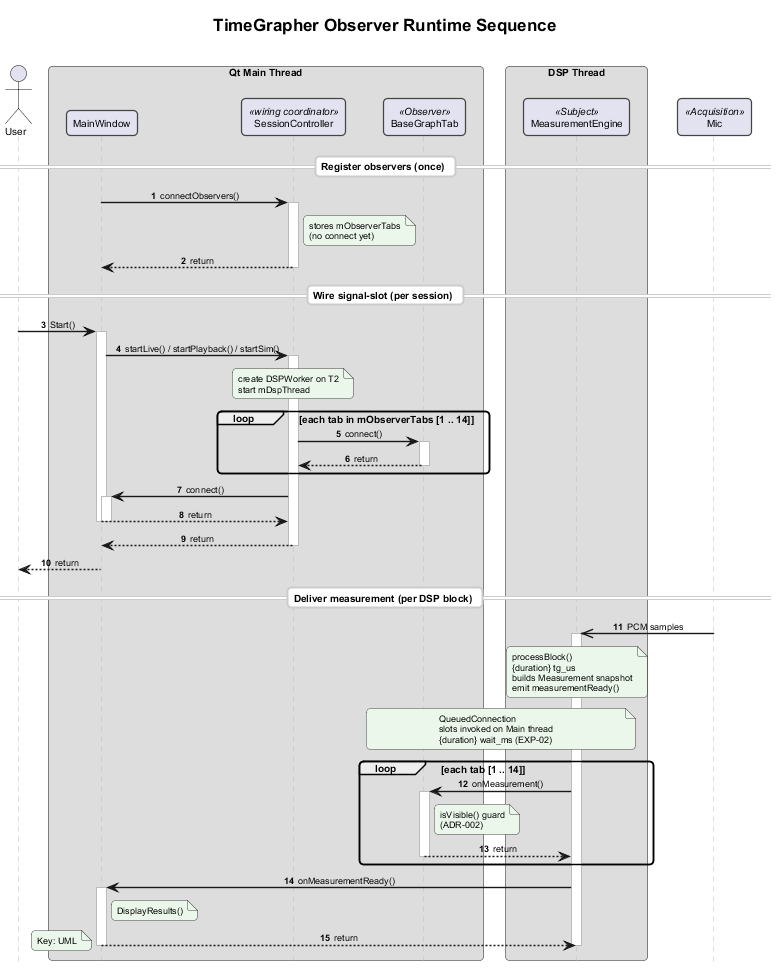
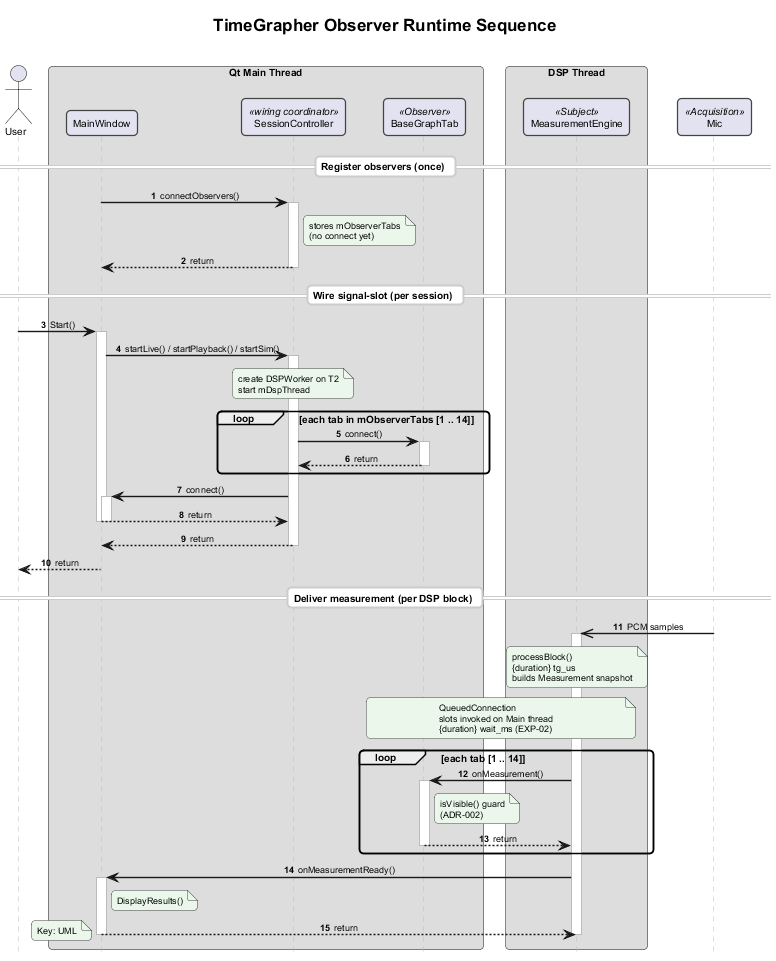
docs(m2): simplify Observer runtime sequence for 2-B focus
Keep User/Mic lifelines and slot delivery; omit buffer and explicit emit steps so the diagram stays scoped to Observer wiring.

diff --git a/docs/milestone2/final/references/views/view-decomposition-graph-tab.md b/docs/milestone2/final/references/views/view-decomposition-graph-tab.md
@@ -77,7 +77,7 @@ Three phases (autonumbered UML sequence; lifelines left → right: **User** · Q
 
 1. **Register observers (once)** — `MainWindow` → `SessionController.connectObservers()`; stores `mObserverTabs` only (no `connect` yet)
 2. **Wire signal-slot (per session)** — **User** `Start()` → each session start registers Qt `connect()`: `MeasurementEngine::measurementReady` → `BaseGraphTab::onMeasurement` (×14) and → `MainWindow::onMeasurementReady()`; `QueuedConnection` (DSP Thread → Main Thread)
-3. **Deliver measurement (per DSP block)** — **Mic** `PCM samples` → DSP Thread `processBlock()` / `measurementReady()` → Main Thread `onMeasurement()` ×14 + `onMeasurementReady()` (`{duration}` `tg_us`, `wait_ms` — EXP-02)
+3. **Deliver measurement (per DSP block)** — **Mic** `PCM samples` → DSP Thread `processBlock()` → Main Thread `onMeasurement()` ×14 + `onMeasurementReady()` (`{duration}` `tg_us`, `wait_ms` — EXP-02)
 
 > Source: [`../../assets/view2b-observer-runtime.puml`](../../assets/view2b-observer-runtime.puml) · Cross-thread via `QueuedConnection` (see [C&C View: DSP Pipeline Thread Model](view-cc-dsp-pipeline.md))
 
@@ -137,7 +137,6 @@ Mic                                      [Acquisition]
     │  PCM samples
     ▼
 MeasurementEngine::processBlock()          [DSP Thread]
-    │  measurementReady()                  [emit on DSP Thread]
     ▼  QueuedConnection → Qt Main Thread
     ├─▶ BaseGraphTab::onMeasurement()      [×14 tabs; isVisible() guard — ADR-002]
     └─▶ MainWindow::onMeasurementReady()   [DisplayResults()]

diff --git a/docs/milestone2/final/slide-architecture-view.md b/docs/milestone2/final/slide-architecture-view.md
@@ -110,7 +110,7 @@ Three phases (autonumbered UML sequence; lifelines left → right: **User** · Q
 
 1. **Register observers (once)** — `MainWindow` → `SessionController.connectObservers()`; stores `mObserverTabs` only (no `connect` yet)
 2. **Wire signal-slot (per session)** — **User** `Start()` → each session start registers Qt `connect()`: `MeasurementEngine::measurementReady` → `BaseGraphTab::onMeasurement` (×14) and → `MainWindow::onMeasurementReady()`; `QueuedConnection` (DSP Thread → Main Thread)
-3. **Deliver measurement (per DSP block)** — **Mic** `PCM samples` → DSP Thread `processBlock()` / `measurementReady()` → Main Thread `onMeasurement()` ×14 + `onMeasurementReady()` (`{duration}` `tg_us`, `wait_ms` — EXP-02)
+3. **Deliver measurement (per DSP block)** — **Mic** `PCM samples` → DSP Thread `processBlock()` → Main Thread `onMeasurement()` ×14 + `onMeasurementReady()` (`{duration}` `tg_us`, `wait_ms` — EXP-02)
 
 > Source: [`assets/view2b-observer-runtime.puml`](assets/view2b-observer-runtime.puml) · Cross-thread via `QueuedConnection` (see 2-A)
 